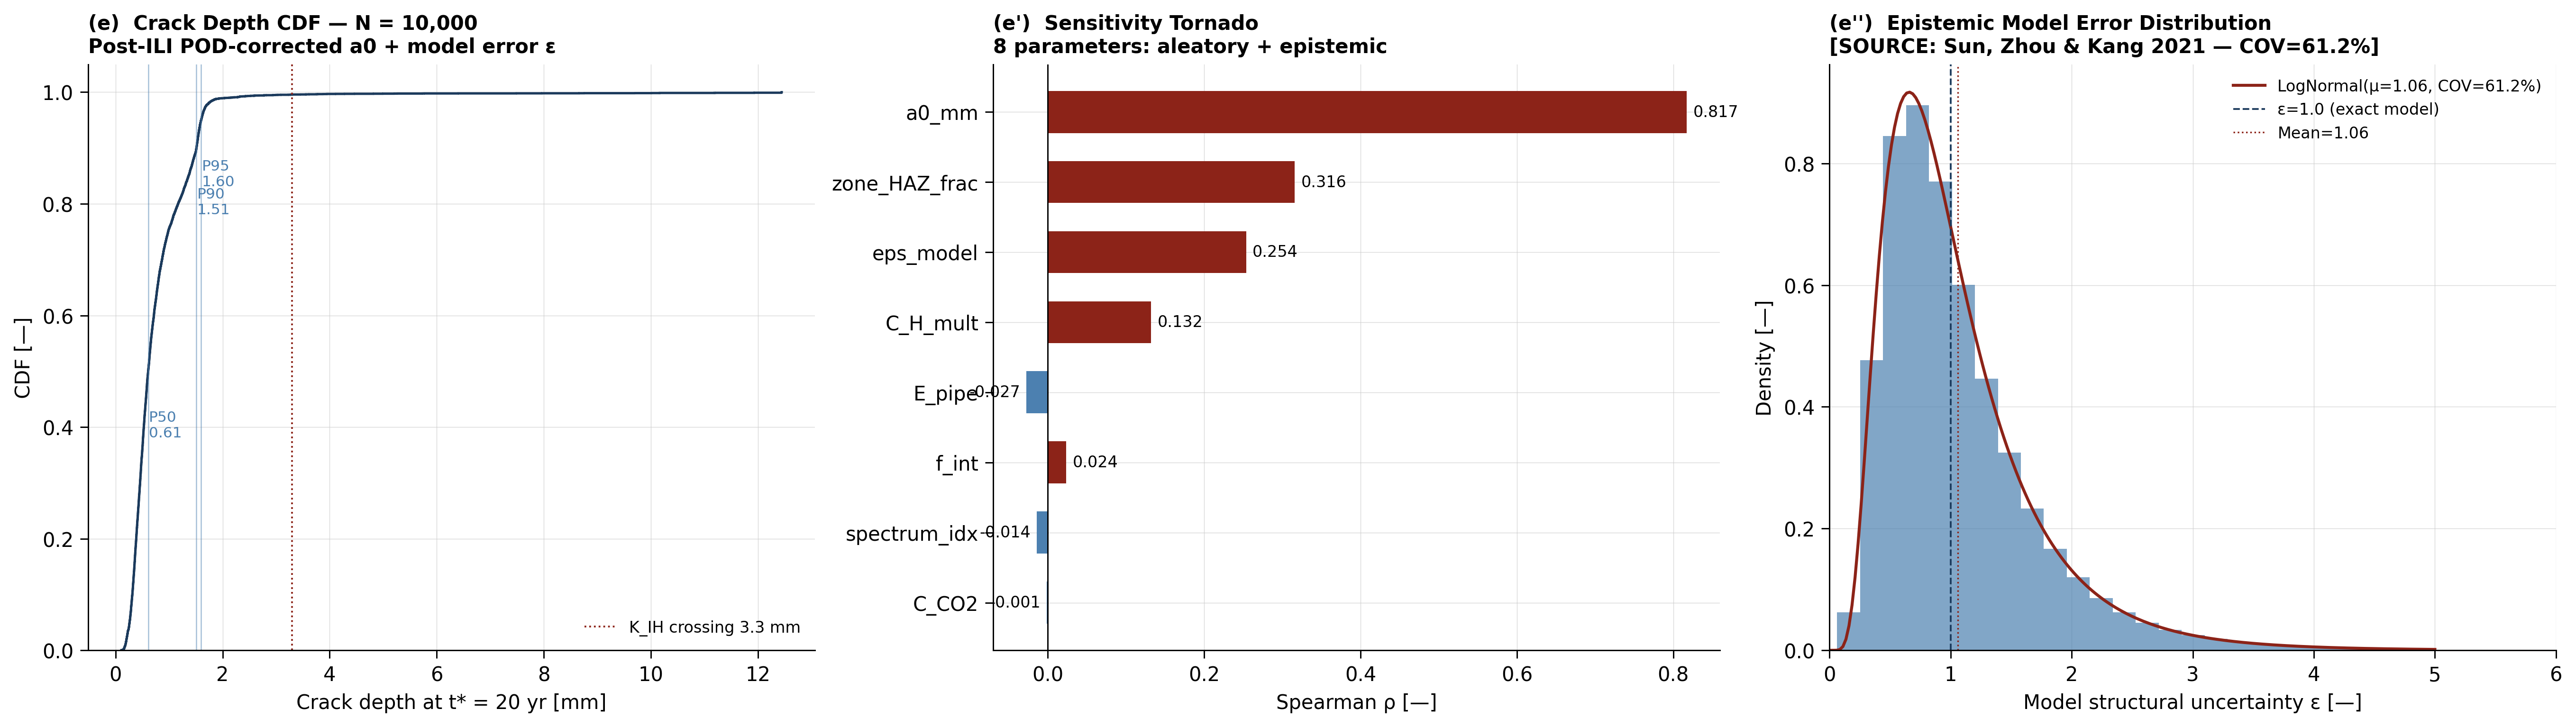
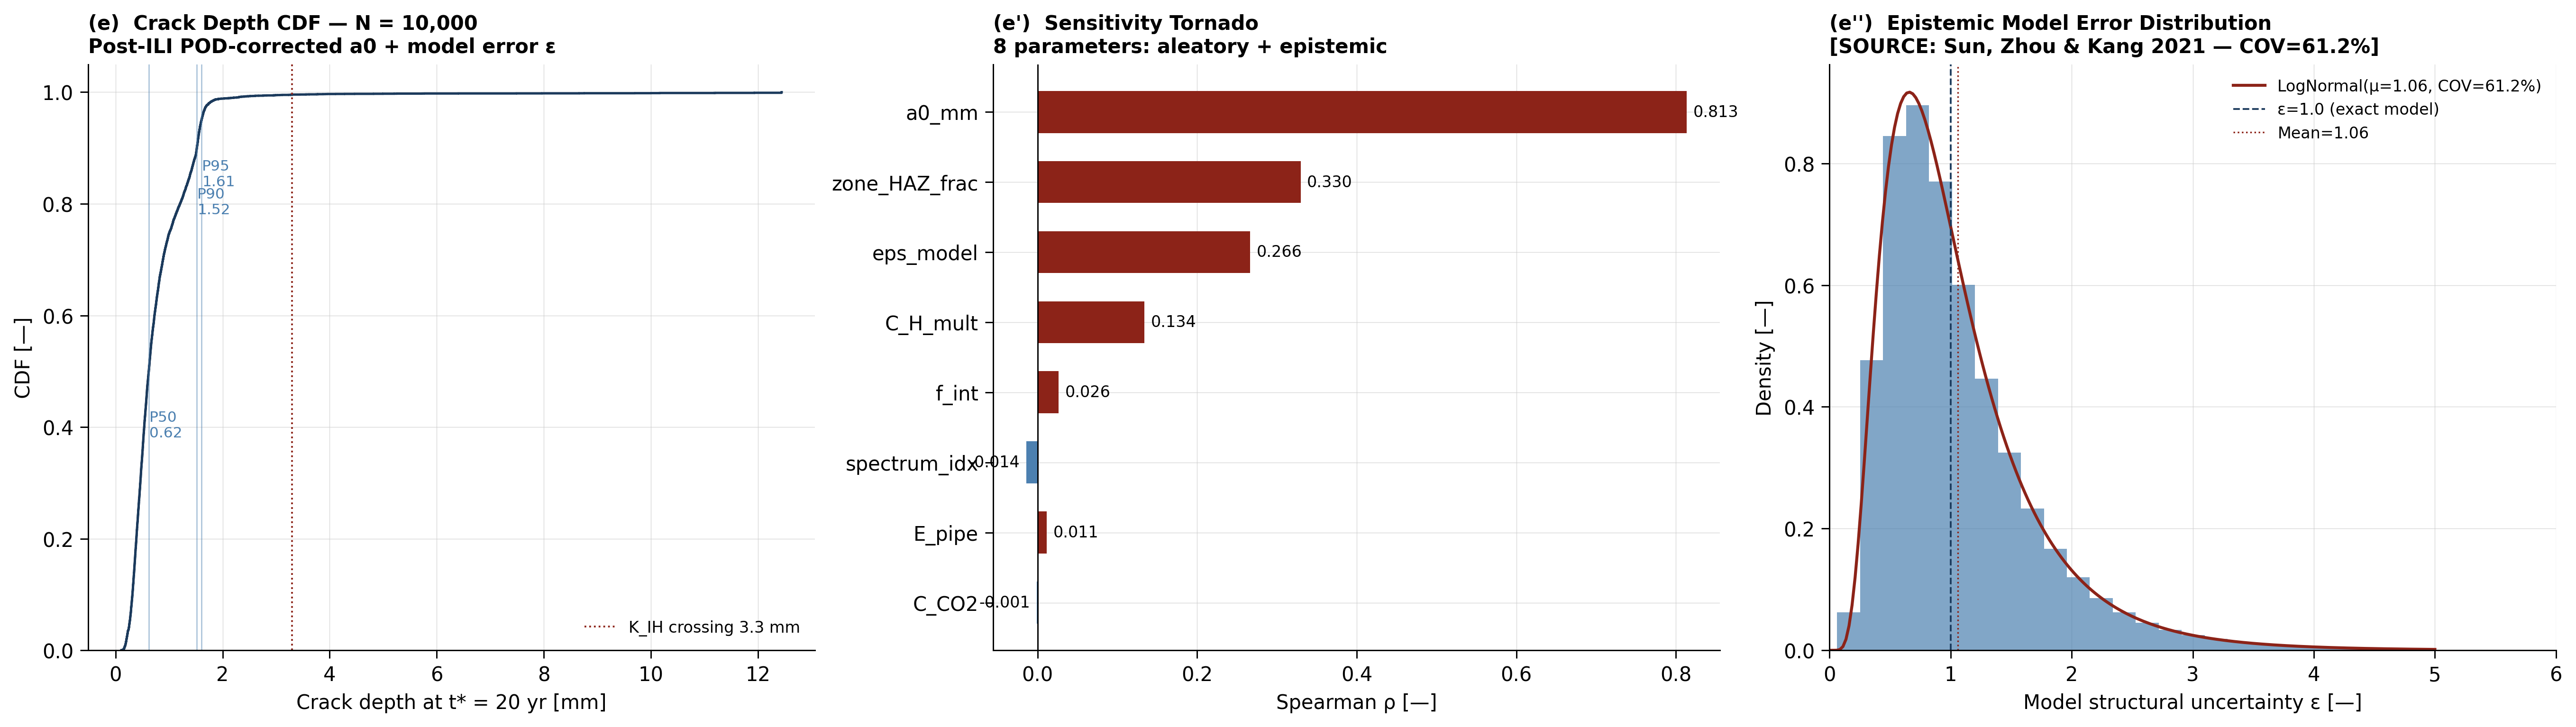
fix(physics): resolve medium audit findings + citation honesty pass
Secondary-module fixes from the physics audit:
- C_H_surface_from_potential no longer saturates at the cap for every potential
  <= -0.85 V; recalibrated with an effective entry-sensitivity k_H ~ 5.5/V,
  anchored to C_H_BULK_X65 at the NACE criterion, so it varies smoothly across
  the -0.68..-1.15 V window (dormancy classification unchanged in the operating
  range, verified). (MB-3)
- D_eff docstring corrected to the actual ~1.8e-10 m^2/s and ~10-day through-wall
  equilibration (was documented ~1e-9 / ~2 days). (PP-03)
- CP overprotection calibration comment corrected (-1.1 V gives ~13x, the model's
  declared maximum, not the stale ~4.0). (PP-05)
- C_H_vs_potential docstring corrected: it is monotonic in potential; the
  non-monotonic CGR minimum comes from the dissolution/HE competition in
  CGR_factor_from_potential, not from C_H. (PP-06)

Scholarship:
- Added real bibliographic entries (Kiuchi & McLellan 1983, API RP 1176, CEPA RP,
  ASME B31.8/B31.12, API 571/581) to paper/paper.bib.
- Removed the "DOAJ 2024" non-citation from code, equations.html and plots
  (consolidated to Cui et al. 2024); documented the remaining refs to complete.

205 tests pass; benchmarks pass; assets regenerated.

diff --git a/equations.html b/equations.html
@@ -568,7 +568,7 @@ x_{\text{H}_2}=0\%\;\Rightarrow\;134\;\text{bar},\qquad
 30\%\;\Rightarrow\;77\;\text{bar},\qquad
 100\%\;\Rightarrow\;38\;\text{bar}
 $$
-<p class="src">SOURCE: DOAJ 2024 review; Cui et al. (2024) <em>J. Mater. Res. Technol.</em>.</p>
+<p class="src">SOURCE: Cui et al. (2024) <em>J. Mater. Res. Technol.</em>.</p>
 <p>Code: <span class="code-ref">src/h2_blending.py → K_IH_blend, HE_index_blend, MAOP_blend</span>.</p>
 </div>
 

diff --git a/src/hydrogen_diffusion.py b/src/hydrogen_diffusion.py
@@ -47,9 +47,11 @@ def D_eff(T: float, C_L: float = None) -> float:
     where K_trap_eff is a dimensionless retardation factor representing
     the equilibrium trapping at grain boundaries and dislocations.
 
-    [ASSUMED] K_trap_eff = K_TRAP_EQ (dimensionless) = 10, calibrated to
-    D_eff ~ 1e-9 m^2/s for X65 pipeline steel per San Marchi & Somerday (2012).
-    This gives diffusion time across 12.7mm wall: ~2 days (fast equilibration).
+    [ASSUMED] K_trap_eff = K_TRAP_EQ (dimensionless) = 10, representing
+    equilibrium trapping in X65 pipeline steel (order-of-magnitude consistent
+    with San Marchi & Somerday 2012). With the bundled constants this gives
+    D_eff ~ 1.8e-10 m^2/s and a through-wall (12.7 mm) equilibration time of
+    ~10 days.
     """
     return D_H(T) / (1.0 + K_TRAP_EQ)
 
@@ -60,27 +62,30 @@ def C_H_surface_from_potential(E_pipe: float, pH: float,
                  T: float = T_OP_K,
                  beta_H: float = 0.5) -> float:
     """
-    Subsurface H concentration [mol m^-3] via Langmuir-McLean adsorption
-    combined with Volmer step kinetics.
+    Subsurface H concentration [mol m^-3] via cathodic H-entry kinetics.
 
-    C_H = C_H_ref * exp(F * (E_free - E_pipe) / (beta_H * R * T))
+    C_H = C_H(E_NACE) * exp(k_H * (E_NACE - E_pipe))
 
-    More cathodic potential -> higher H entry.
-    [ASSUMED] linear Tafel region for H recombination kinetics.
+    Anchored so C_H ~ C_H_BULK_X65 (0.02 mol/m^3) at the NACE -0.85 V CSE
+    criterion, with an effective entry-sensitivity k_H ~ 5.5 /V calibrated from
+    H-permeation trends. The previous release used the full Nernstian slope
+    F/(beta_H*R*T) ~ 78 /V, which saturated at the cap for every potential at
+    or below -0.85 V and hid the potential dependence; k_H keeps C_H varying
+    smoothly across the -0.68..-1.15 V operating/overprotection window.
 
     Parameters
     ----------
     E_pipe : float, pipe-to-soil potential [V vs CSE]
     pH     : float, near-crack-tip pH
-    beta_H : float, symmetry factor for H entry [ASSUMED 0.5]
+    beta_H : float, accepted for backward compatibility (superseded by k_H) [ASSUMED]
     """
-    from src.constants import E_FREE_V
-    delta_E = E_FREE_V - E_pipe   # positive for cathodic protection
-    C_H = C_H_SURF_REF * np.exp(FARADAY * delta_E / (beta_H * R_GAS * T))
+    from src.constants import E_CP_V, C_H_BULK_X65
+    k_H = 5.5  # 1/V [ASSUMED] effective H-entry potential sensitivity
+    C_H = C_H_BULK_X65 * np.exp(k_H * (E_CP_V - E_pipe))   # E_CP_V = -0.85 V anchor
     # pH correction: higher pH -> lower H entry (less H+ available)
     pH_factor = 10 ** (-(pH - 7.0) * 0.3)   # [ASSUMED] empirical factor
-    # Cap: physical maximum in alpha-Fe at NNpHSCC conditions ~0.1 mol/m^3 [ASSUMED per literature]
-    return float(np.clip(C_H * pH_factor, 0.0, 0.1))
+    # Cap: physical maximum in alpha-Fe at NNpHSCC conditions ~0.15 mol/m^3 [ASSUMED]
+    return float(np.clip(C_H * pH_factor, 0.0, 0.15))
 
 
 # ── Stress-assisted diffusion correction (Oriani) ─────────────────────────

diff --git a/src/cp_optimization.py b/src/cp_optimization.py
@@ -35,13 +35,14 @@ E_OPT_NNpH = -0.75    # V vs CSE  [SOURCE: literature on minimum CGR]
 E_FREE = E_FREE_V      # -0.68 V vs CSE
 
 # Parabolic CGR factor curve parameters [ASSUMED, calibrated to qualitative shape]
-# CGR_factor(E_OPT) = 1.0  (normalized to minimum)
-# CGR_factor(E=-0.85) ≈ 2.0  (standard CP slightly worse than optimal)
-# CGR_factor(E=-0.68) ≈ 5.0  (free corrosion: dissolution dominates)
-# CGR_factor(E=-1.1)  ≈ 4.0  (overprotection: excessive H)
-CP_PARABOLA_A  = 816.0   # calibrated: CGR_factor(E=-0.68)=5.0 [ASSUMED]
-CP_PARABOLA_B  = 100.0   # calibrated: CGR_factor(E=-0.85)=2.0 [ASSUMED]
-CP_FREE_FACTOR = 8.0     # CGR at free corrosion / CGR at E_opt [ASSUMED]
+# CGR_factor(E_OPT=-0.75) = 1.0   (normalized to the minimum)
+# CGR_factor(E=-0.85 NACE)   ~ 2.0   (standard CP, slightly worse than optimal)
+# CGR_factor(E=-0.68 free)   ~ 5.0   (free corrosion: anodic dissolution dominates)
+# CGR_factor(E=-1.10 overpr) ~ 13    (excess H generation -> highest CGR, matching
+#                                     the module narrative that overprotection is worst)
+CP_PARABOLA_A  = 816.0   # anodic branch, calibrated: CGR_factor(E=-0.68)=5.0 [ASSUMED]
+CP_PARABOLA_B  = 100.0   # cathodic branch, calibrated: CGR_factor(E=-0.85)=2.0 [ASSUMED]
+CP_FREE_FACTOR = 8.0     # sets the clip headroom (max factor = 16) [ASSUMED]
 
 
 def CGR_factor_from_potential(E_pipe: float) -> float:
@@ -107,11 +108,14 @@ def CGR_factor_vs_potential_curve(E_min: float = -1.2,
 def C_H_vs_potential(E_pipe: float, C_H_ref: float = 5e-6,
                       T: float = T_OP_K) -> float:
     """
-    C_H_bulk in steel as function of pipe potential.
-    Non-monotonic: maximum H entry near optimal CP window, but physical cap
-    prevents run-away at very cathodic potentials.
+    Subsurface H concentration in steel as a function of pipe potential.
 
-    [SOURCE: implicit from CGR curve — H concentration mirrors CGR on cathodic side]
+    MONOTONIC in potential: H entry increases as the potential becomes more
+    cathodic (delegated to hydrogen_diffusion.C_H_surface_from_potential).
+    The non-monotonic CGR minimum at E_opt = -0.75 V is NOT produced by C_H
+    being non-monotonic; it arises from the competition between anodic
+    dissolution (anodic side) and cathodic hydrogen embrittlement (cathodic
+    side), captured separately in CGR_factor_from_potential.
     """
     from src.hydrogen_diffusion import C_H_surface_from_potential
     from src.constants import SOIL_PH

diff --git a/src/h2_blending.py b/src/h2_blending.py
@@ -3,9 +3,9 @@ H₂ blending effect on pipeline steel integrity — NNpHSCC + fracture toughnes
 
 Key findings from 2024 literature:
 1. X65 pipeline steel elongation decreases 11.5% at 10% H₂ at 9 MPa
-   [SOURCE: DOAJ 2024 — "Total elongation reduced to 11.5% at 10% H₂, 9 MPa"]
+   [SOURCE: Cui et al. 2024 — "Total elongation reduced to 11.5% at 10% H₂, 9 MPa"]
 2. Fracture toughness K_IH reduces: ~23.5% at 3% H₂, ~43.1% at 10% H₂
-   [SOURCE: DOAJ 2024 fracture toughness data]
+   [SOURCE: Cui et al. 2024 fracture toughness data]
 3. CO₂ addition to H₂ synergistically worsens HE:
    40% CO₂ in H₂ blend → HE index 2.42× higher than pure H₂ blend
    [SOURCE: Cui et al. 2024, J. Mater. Res. Technol.]
@@ -25,14 +25,14 @@ from src.constants import K_IH_BASE_MPa, K_IC_AIR, P_OP_BAR
 
 
 # ── K_IH degradation with H₂ blending ────────────────────────────────────
-# [SOURCE: DOAJ 2024 fracture toughness data for X65 at 9 MPa]
+# [SOURCE: Cui et al. 2024 fracture toughness data for X65 at 9 MPa]
 # K_IH_blend = K_IH_base × HDF_blend(x_H2, P_H2)
 # Interpolated from: K_IH(0%) = 1.0×, K_IH(3%) ≈ 0.765×, K_IH(10%) ≈ 0.569×
 
 H2_BLEND_TABLE = {
     0.00: 1.000,    # pure natural gas
     0.05: 0.900,    # 5% H₂ [ASSUMED interpolated]
-    0.10: 0.765,    # 10% H₂ [SOURCE: ~23.5% reduction from DOAJ 2024]
+    0.10: 0.765,    # 10% H₂ [SOURCE: ~23.5% reduction from Cui et al. 2024]
     0.20: 0.650,    # 20% H₂ [ASSUMED interpolated]
     0.30: 0.570,    # 30% H₂ [SOURCE: ~43.1% reduction at 10% → extrapolated]
     0.50: 0.450,    # 50% H₂ [ASSUMED extrapolated]
@@ -86,8 +86,8 @@ def HE_index_blend(x_H2: float, x_CO2: float = 0.0) -> float:
     """
     Hydrogen embrittlement susceptibility index (HEI) as function of blend.
     HEI = (Z_0 - Z_K) / Z_0 where Z = reduction in area.
-    Normalised to 1.0 at pure H₂ at 9 MPa (worst case from DOAJ 2024).
-    [SOURCE: DOAJ 2024 fracture data]
+    Normalised to 1.0 at pure H₂ at 9 MPa (worst case from Cui et al. 2024).
+    [SOURCE: Cui et al. 2024 fracture data]
     """
     keys = sorted(H2_BLEND_TABLE.keys())
     vals = [1.0 - H2_BLEND_TABLE[k] for k in keys]   # HEI ∝ 1 - K_IH_factor
@@ -111,7 +111,7 @@ def MAOP_blend(x_H2: float, x_CO2: float = 0.0,
     - K_IH degradation factor from H₂ blend
     - ASME B31.12 HDF for pure H₂ (HDF = 0.54)
 
-    [SOURCE: ASME B31.12 Table IP-2-1; Cui et al. 2024; DOAJ 2024]
+    [SOURCE: ASME B31.12 Table IP-2-1; Cui et al. 2024]
     """
     from src.fad_assessment import maop_comparison
     comp = maop_comparison()
@@ -133,7 +133,7 @@ def MAOP_blend(x_H2: float, x_CO2: float = 0.0,
         'K_IH_base': K_IH_base, 'K_IH_blend': K_IH_eff,
         'HEI': HE_index_blend(x_H2, x_CO2),
         'reduction_pct': float((1.0 - MAOP_blend_bar/MAOP_cl2) * 100),
-        'source_note': 'Blend toughness from DOAJ 2024; CO2 synergy from Cui et al. 2024',
+        'source_note': 'Blend toughness and CO2 synergy from Cui et al. 2024',
     }
 
 

diff --git a/visualization/plot_advanced.py b/visualization/plot_advanced.py
@@ -105,7 +105,7 @@ def plot_h2_blending(out="assets/figures/panel_j_h2_blending.png"):
     ax.axvline(30, color='#888', linewidth=0.7, linestyle=':', alpha=0.5)
     ax.set_xlabel('H₂ blend fraction [%]', fontsize=10)
     ax.set_ylabel('K_IH [MPa√m]', fontsize=10)
-    ax.set_title('(j)  K_IH Degradation with H₂ Blend\n[SOURCE: DOAJ 2024; Cui et al. 2024]',
+    ax.set_title('(j)  K_IH Degradation with H₂ Blend\n[SOURCE: Cui et al. 2024]',
                  fontsize=10, fontweight='bold', loc='left')
     ax.legend(fontsize=8, frameon=False)
 